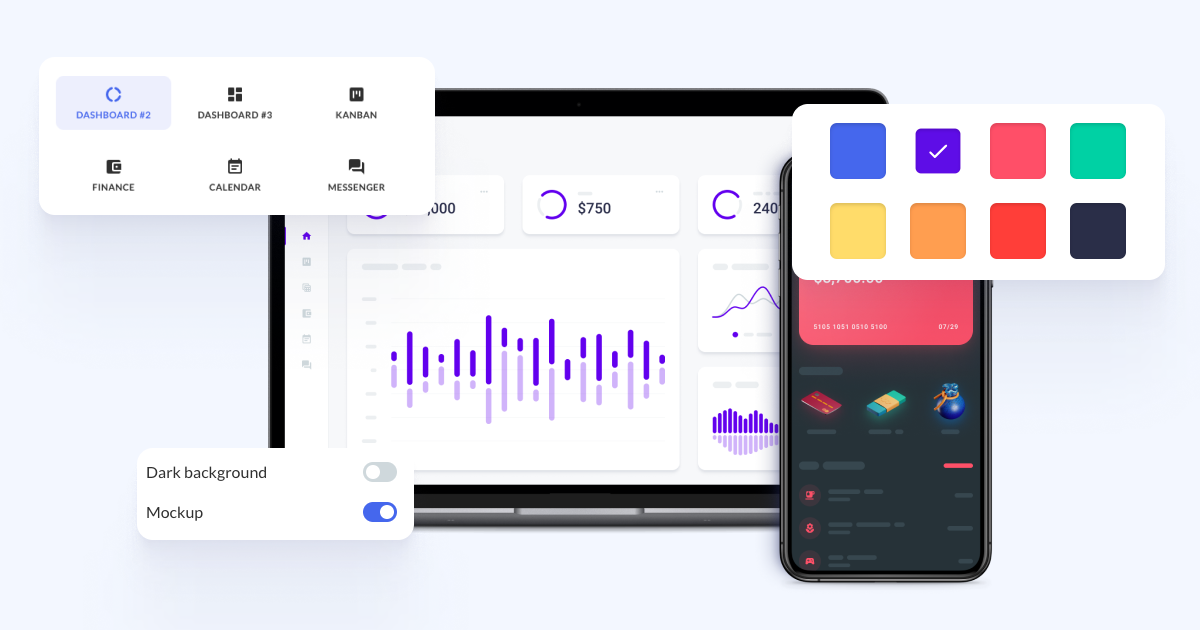
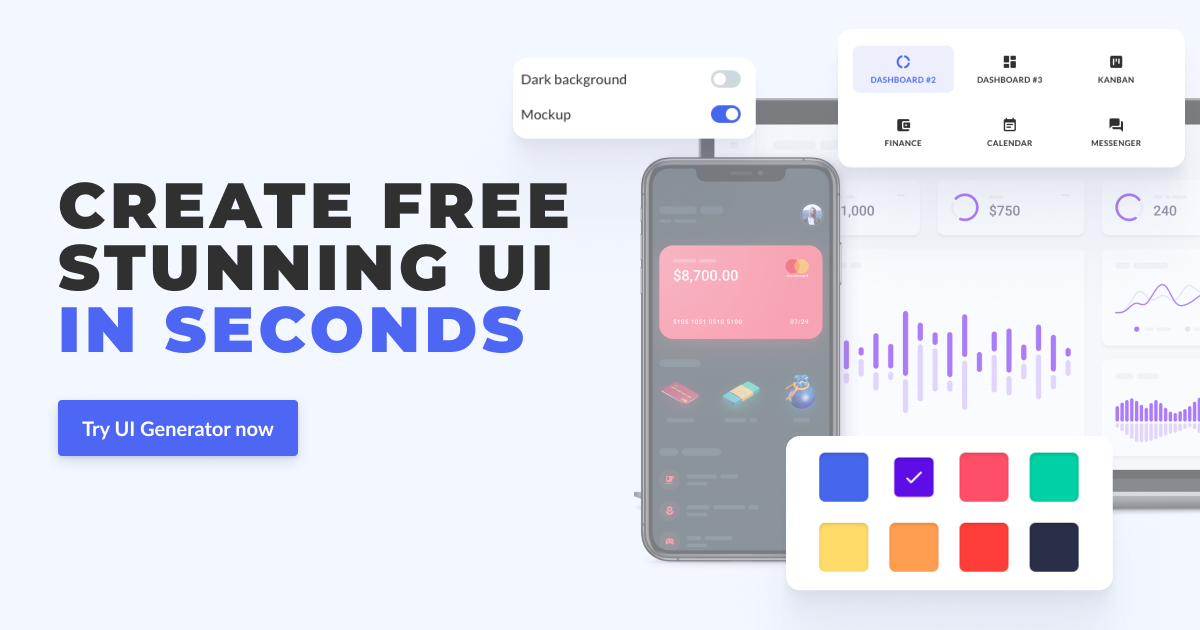
Minor updates

diff --git a/public/index.html b/public/index.html
@@ -4,28 +4,41 @@
 
   <meta name="viewport" content="width=device-width, initial-scale=1">
 
-  <title>UI Generator | Create UI mockups in seconds</title>
-  <meta property="og:title" content="UI Generator | Create UI mockups in seconds">
-  <meta name="twitter:title" content="UI Generator | Create UI mockups in seconds">
+  <title>Generate free mockup UI for your website or app. Over 500 variations 🤤</title>
+  <meta property="og:title" content="Generate free mockup UI for your website or app. Over 500 variations 🤤">
+  <meta name="twitter:title" content="Generate free mockup UI for your website or app. Over 500 variations 🤤">
 
-  <meta name="description" content="Create and download beautiful UI mockups instantly. For free.">
-  <meta property="og:description" content="Create and download beautiful UI mockups instantly. For free.">
-  <meta name="twitter:description" content="Create and download beautiful UI mockups instantly. For free.">
+  <meta name="description" content="Use our free tool to generate fake (mockup) UI for your landing page, website, blog or AppStore page. Download free PNG files. No attribution is required.">
+  <meta property="og:description" content="Use our free tool to generate fake (mockup) UI for your landing page, website, blog or AppStore page. Download free PNG files. No attribution is required.">
+  <meta name="twitter:description" content="Use our free tool to generate fake (mockup) UI for your landing page, website, blog or AppStore page. Download free PNG files. No attribution is required.">
 
   <meta property="og:type" content="website">
 
-  <meta name="twitter:url" content="og.png">
-  <meta property="og:url" content="og.png">
-  <link href="https://" rel="canonical">
+  <meta name="twitter:url" content="http://uigenerator.org">
+  <meta property="og:url" content="http://uigenerator.org">
+  <link href="https://uigenerator.org" rel="canonical">
 
-  <meta property="og:image" content="">
-  <meta name="twitter:image" content="">
+  <meta property="og:image" content="http://uigenerator.org/og.png">
+  <meta name="twitter:image" content="http://uigenerator.org/og.png">
   <meta name="twitter:card" content="summary_large_image">
+
+  <link rel="icon" href="media/favicon.png">
 
   <link rel="preconnect" href="https://fonts.googleapis.com">
   <link rel="preconnect" href="https://fonts.gstatic.com" crossorigin>
   <link href="https://fonts.googleapis.com/css2?family=Lato:wght@400;700&family=Montserrat:wght@400;700&display=swap" rel="stylesheet">
   <link href="https://fonts.googleapis.com/css?family=Material+Icons|Material+Icons+Outlined|Material+Icons+Two+Tone|Material+Icons+Round|Material+Icons+Sharp" rel="stylesheet">
+
+
+  <script async src="https://www.googletagmanager.com/gtag/js?id=G-CVCT64CC74"></script>
+  <script>
+    window.dataLayer = window.dataLayer || [];
+    function gtag(){dataLayer.push(arguments);}
+    gtag('js', new Date());
+
+    gtag('config', 'G-CVCT64CC74');
+  </script>
+
 </head>
 <body>
   <div id="root"></div>

diff --git a/src/Sidebar.js b/src/Sidebar.js
@@ -57,14 +57,14 @@ class Sidebar extends Component {
 								<h3 className="sidebar__title h3-title">Share with friends</h3>
 								<div className="sidebar__share-links">
 									<a className="sidebar__twitter share-link" 
-									href={`https://twitter.com/intent/tweet?url=${encodeURIComponent(document.URL)}`}
+									href={`https://twitter.com/intent/tweet?text=I%20made%20this%20awesome%20UI%20in%20just%20a%20few%20seconds⚡%20Check%20it%20out%20here:&url=${encodeURIComponent(document.URL)}`}
 									target="popup"
 									onClick={() => {window.open(this.href,'popup','width=600,height=600'); return false;} }
 									>
 										<img src="twitter.svg" alt="" />
 									</a>
 									<a className="sidebar__facebook share-link" 
-									href={`http://www.facebook.com/share.php?u=${encodeURIComponent(document.URL)}`}
+									href={`http://www.facebook.com/share.php?t=123&u=${encodeURIComponent(document.URL)}`}
 									target="popup"
 									onClick={() => {window.open(this.href,'popup','width=600,height=600'); return false;} }
 									>

diff --git a/src/Button.js b/src/Button.js
@@ -3,8 +3,17 @@ import React, {Component} from 'react'
 const Button = function(arg) {
 	const icon = <img className="button__icon" src="download.svg" alt="" />
 	const ButtonTag = arg.htmlTag || "button"
+	let src=""
+	src = src + 
+	"https://ui-generator.s3.amazonaws.com/" +
+	arg.type +
+	arg.category + 
+	arg.dark + 
+	arg.mockup +
+	arg.color +
+	".png"
 		return (
-			<ButtonTag href={(arg.href ? arg.href : null)} 
+			<ButtonTag href={(arg.href ? arg.href : (arg.download ? src : null))} 
 			target={(arg.target ? arg.target : null)}
 			className={"button button_" + (arg.buttonType ? arg.buttonType : "primary") + " " + (arg.className ? arg.className : "")}>
 			{arg.icon ? icon : null}

diff --git a/src/Main.js b/src/Main.js
@@ -47,12 +47,14 @@ class Main extends Component {
 					startLoading={this.props.startLoading}
 					finishLoading={this.props.finishLoading}
 					/>
-					<Button buttonType="primary" icon htmlTag="button"
+					<Button buttonType="primary" icon htmlTag="a"
+					target="_blank"
 					type={this.props.type}
 					category={this.props.category}
 					dark={this.props.dark}
 					mockup={this.props.mockup}
 					color={this.props.color}
+					download={true}
 					className="button_download"
 					>
 					Download .png

diff --git a/src/App.scss b/src/App.scss
@@ -234,7 +234,7 @@ body {
 }
 
 .button {
-	padding: 10px 20px;
+	padding: 12px 24px;
 	display: inline-flex;
 	justify-content: center;
 	align-items: center;
@@ -242,9 +242,6 @@ body {
 	box-shadow: 0px 2px 4px rgba(136, 144, 194, 0.2), 0px 5px 15px rgba(37, 44, 97, 0.15);
 	border-radius: 4px;
 	user-select: none;
-	@media (max-width: $br-mobile) {
-		//width: 100%;
-	}
 	&__text {
 		@extend %ts-button;
 	}
